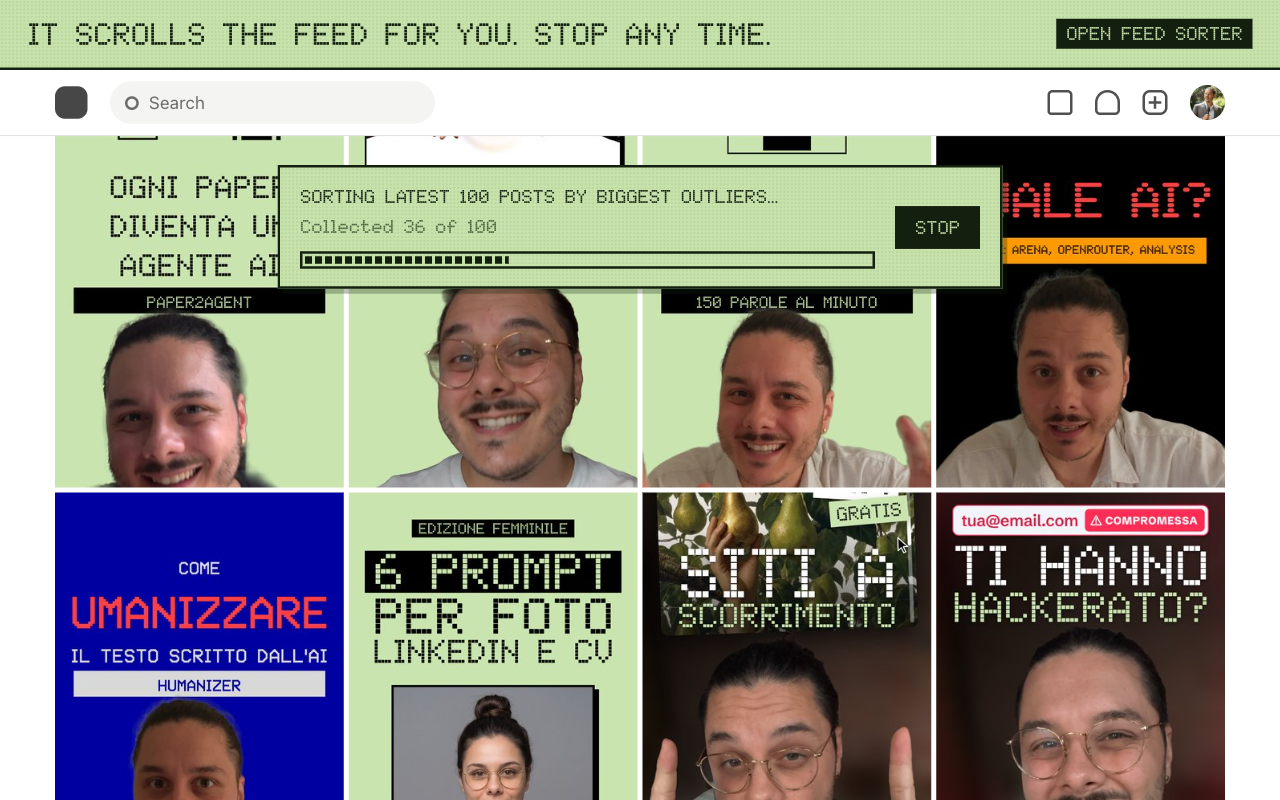
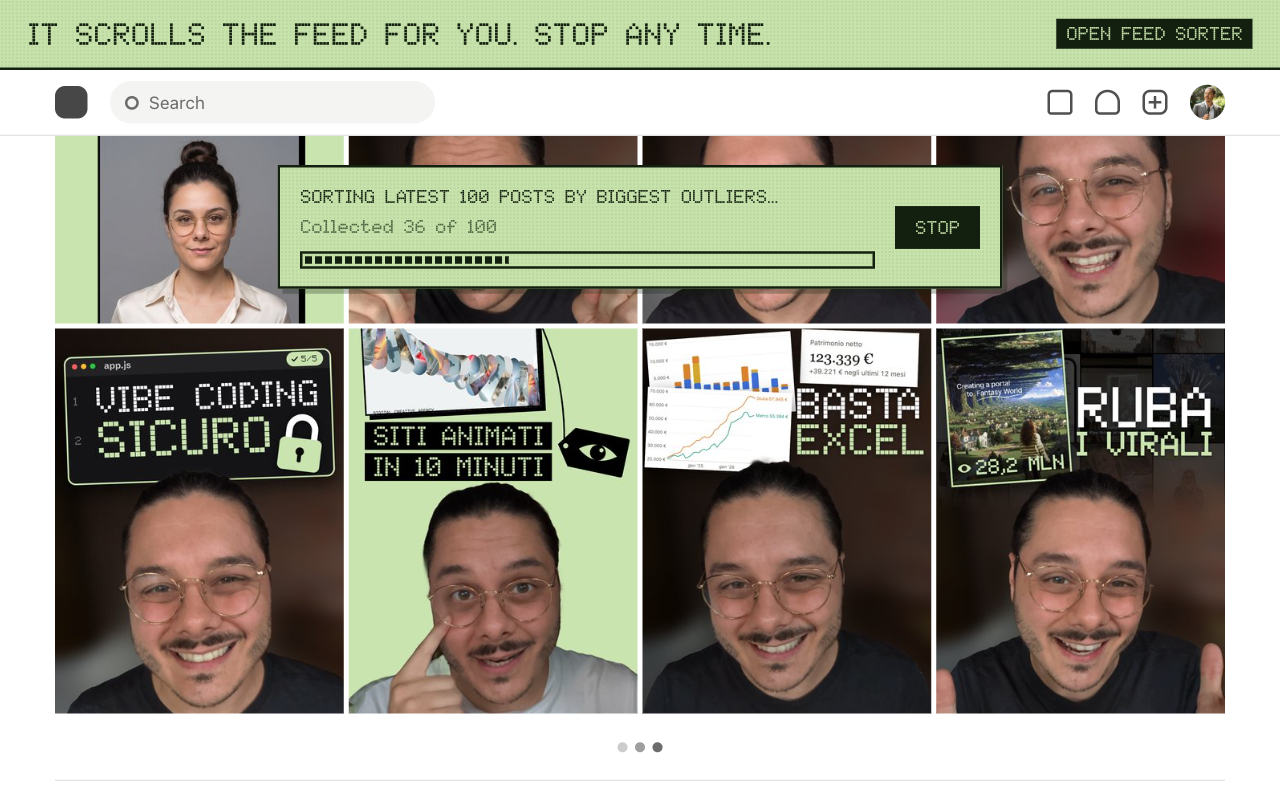
Show the newest video covers in the screenshots
The covers are ordered newest first, and the posts nearest the top of
each screenshot choose their cover first, so every visible tile shows one
of the newest videos and older covers fill only posts no shot shows.

The collecting shot laid itself out before the spinner appeared, so it
measured a hidden spinner and stopped on whatever rows sat a screen
above. It now waits for the spinner and shows the last rows loading.

diff --git a/store/harness/fixture.js b/store/harness/fixture.js
@@ -61,11 +61,11 @@ export const OUTLIERS = new Map([
 
 /** The same account on TikTok, where different posts took off. */
 export const TIKTOK_OUTLIERS = new Map([
-  [11, { score: 8.4, cover: "ai-websites" }],
+  [11, { score: 8.4, cover: "vibe-coding-sicuro" }],
   [7, { score: 6.1, cover: "open-feed-sorter-2" }],
-  [19, { score: 3.3, cover: "humanizer" }],
-  [30, { score: 2.4, cover: "vibe-coding-sicuro" }],
-  [26, { score: 2.1, cover: "freellmapi" }],
+  [19, { score: 3.3, cover: "dashboard-finanze" }],
+  [30, { score: 2.4, cover: "siti-animati" }],
+  [26, { score: 2.1, cover: "nvidia-api" }],
 ]);
 
 /**
@@ -85,31 +85,41 @@ const CHATTY = new Map([
 const SCREEN = 16;
 
 /**
- * The sets of posts a screenshot can show together: the feed as it loads,
- * newest first, and the top of each sort a shot uses, over the whole feed
- * and over a 50-post run.
+ * The sets of posts a screenshot can show together, most visible first: the
+ * feed as it loads, newest first; the last two rows the "collecting" shot
+ * stops on (36 posts in, see stage.js), the whole bottom row before the
+ * cut-off one above it; and the top of each sort a shot uses, over the whole
+ * feed and over a 50-post run.
  */
 function screens(list) {
   const top = (field, from = list) => from.slice().sort((a, b) => b[field] - a[field]).slice(0, SCREEN);
-  return [list.slice(0, SCREEN), top("views"), top("views", list.slice(0, 50)), top("comments")];
+  const collecting = [...list.slice(32, 36), ...list.slice(28, 32)];
+  return [list.slice(0, SCREEN), collecting, top("views"), top("views", list.slice(0, 50)), top("comments")];
 }
 
 /**
  * Give every post a cover. Outliers and the chatty posts get the one named
- * above; every other post on a screen gets the first cover in COVERS that no
- * post on its screens has yet. Posts no shot shows take covers in turn.
+ * above. Every other post on a screen gets the first cover in COVERS that no
+ * post on its screens has yet, and the posts nearest the top of their screen
+ * choose first, so the newest covers land where they are seen. Posts no shot
+ * shows take covers in turn.
  */
 function assignCovers(list) {
+  const all = screens(list);
   const near = new Map(list.map((post) => [post, new Set()]));
-  for (const screen of screens(list)) {
+  for (const screen of all) {
     for (const post of screen) for (const other of screen) if (other !== post) near.get(post).add(other);
   }
 
   const cover = new Map();
   for (const post of list) if (post.cover) cover.set(post, post.cover);
 
-  for (const post of list) {
-    if (cover.has(post) || near.get(post).size === 0) continue;
+  // Rank 0 of every screen, then rank 1, and so on.
+  const byRank = [];
+  for (let rank = 0; rank < SCREEN; rank++) for (const screen of all) if (screen[rank]) byRank.push(screen[rank]);
+
+  for (const post of byRank) {
+    if (cover.has(post)) continue;
     const taken = new Set([...near.get(post)].map((other) => cover.get(other)));
     const free = COVERS.find(({ slug }) => !taken.has(slug));
     if (!free) throw new Error(`fixture: no cover left for post ${post.index}; add covers or shrink SCREEN`);

diff --git a/store/harness/covers.js b/store/harness/covers.js
@@ -7,32 +7,34 @@
  * pictures are real: every count the screenshots show is invented in
  * fixture.js.
  *
- * Order matters. When a post needs a cover, it gets the first one that no
- * post on the same screen already uses, so the covers near the top of the
- * list are the ones most likely to be seen.
+ * Order matters: newest video first, because the newest covers are the ones
+ * the screenshots should show. When a post on a screen needs a cover, it gets
+ * the first one no post on that screen already uses, and the posts nearest
+ * the top of a screen choose first. Claude Science is last, whatever its
+ * date: its title is not one for a store listing.
  */
 
 export const COVERS = [
+  { slug: "dashboard-finanze", caption: "Basta Excel: la dashboard delle finanze con l'AI" },
   { slug: "open-feed-sorter-2", caption: "Ruba i video virali della tua nicchia" },
   { slug: "siti-scroll", caption: "Siti a scorrimento con l'AI" },
-  { slug: "sicurezza-per-tutti", caption: "Ti hanno hackerato? Cosa fare subito" },
-  { slug: "nvidia-api", caption: "API gratis: le offre Nvidia" },
-  { slug: "dashboard-finanze", caption: "Basta Excel: la dashboard delle finanze con l'AI" },
-  { slug: "ai-websites", caption: "Siti da migliaia di euro, fatti con l'AI" },
-  { slug: "humanizer", caption: "Come umanizzare il testo scritto dall'AI" },
   { slug: "vibe-coding-sicuro", caption: "Vibe coding sicuro" },
-  { slug: "freellmapi", caption: "Smetti di pagare le chiavi API" },
+  { slug: "nvidia-api", caption: "API gratis: le offre Nvidia" },
+  { slug: "sicurezza-per-tutti", caption: "Ti hanno hackerato? Cosa fare subito" },
   { slug: "professional-pics", caption: "Foto pro senza fotografo" },
-  { slug: "professional-pics-broll", caption: "6 prompt per foto LinkedIn e CV" },
   { slug: "siti-animati", caption: "Siti animati in 10 minuti" },
+  { slug: "professional-pics-broll", caption: "6 prompt per foto LinkedIn e CV" },
   { slug: "ai-cybersecurity", caption: "Vibe coding sicuro: 2 tool gratis" },
+  { slug: "ai-websites", caption: "Siti da migliaia di euro, fatti con l'AI" },
+  { slug: "learn-from-youtube", caption: "Rendi il tuo agente esperto in tutto" },
   { slug: "open-feed-sorter", caption: "Trova i video virali degli altri creator" },
   { slug: "agent-reach", caption: "La tua AI ora può usare i social" },
-  { slug: "learn-from-youtube", caption: "Rendi il tuo agente esperto in tutto" },
+  { slug: "freellmapi", caption: "Smetti di pagare le chiavi API" },
   { slug: "paper2agent", caption: "Ogni paper diventa un agente AI" },
   { slug: "ai-job-search", caption: "L'AI che cerca lavoro per te" },
   { slug: "handy", caption: "Digita alla velocità della voce" },
   { slug: "confronto-modelli", caption: "Quale AI usare? Tre siti per sceglierla" },
+  { slug: "humanizer", caption: "Come umanizzare il testo scritto dall'AI" },
   { slug: "claude-science", caption: "Claude Science: l'analisi dei dati per chi fa ricerca" },
 ];
 

diff --git a/store/harness/stage.js b/store/harness/stage.js
@@ -37,7 +37,11 @@ export const SHOTS = {
     platform: "instagram",
     hold: 36,
     run: { ...RUN, sortBy: "outlier", count: 100 },
-    until: (win) => bannerSays(win, "Collected 36 of 100"),
+    // The spinner too: it shows once the collector scrolls to the end of the
+    // held feed. Laid out before then, the page measured a hidden spinner and
+    // scrolled to whatever rows happened to be a screen above it.
+    until: (win) =>
+      bannerSays(win, "Collected 36 of 100") && !win.document.querySelector(".feed__spinner").hidden,
     layout: spinnerNearBottom,
   },
 
